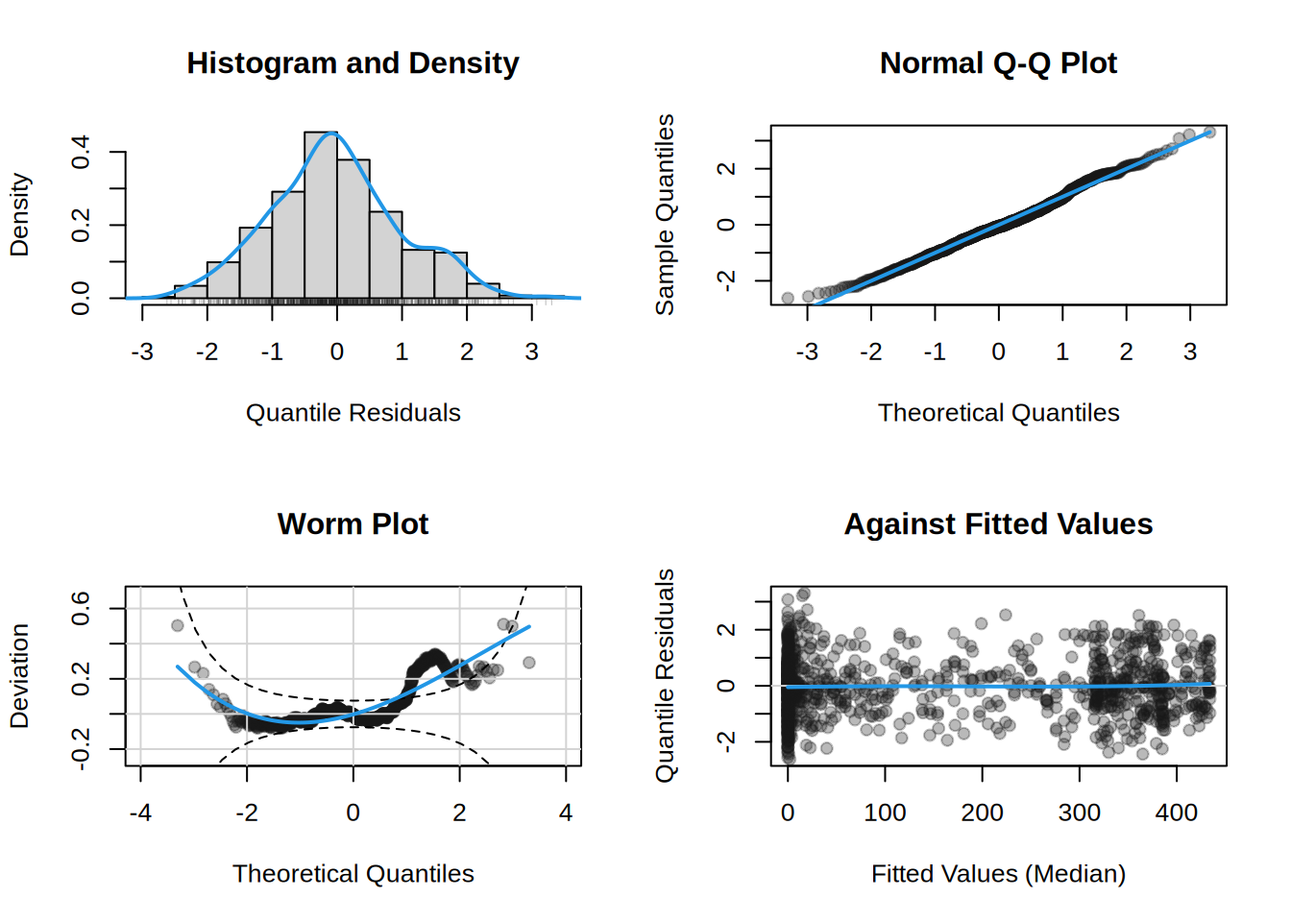
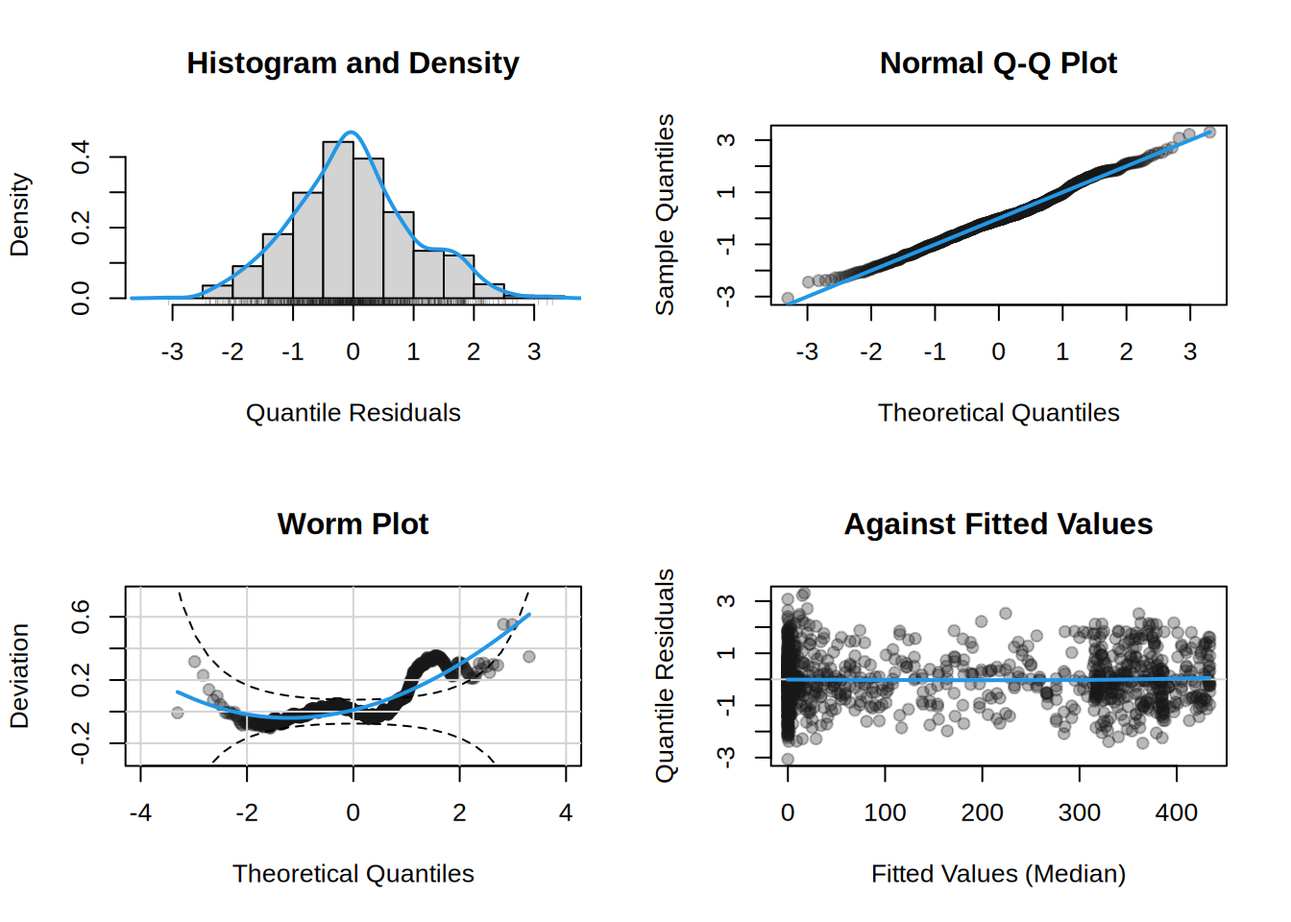
Deploying to gh-pages from @ gamlss-dev/gamlss2@c0889850b08cbef94e48e6db8e49471428d28bfa 🚀

diff --git a/man/predict.gamlss2.html b/man/predict.gamlss2.html
@@ -791,12 +791,12 @@ Further controls, including <code>FUN</code> (a function summarizing predictions
 <span id="cb1-3"><a href="#cb1-3" aria-hidden="true" tabindex="-1"></a><span class="do">## fit heteroscedastic normal GAMLSS model</span></span>
 <span id="cb1-4"><a href="#cb1-4" aria-hidden="true" tabindex="-1"></a><span class="do">## stopping distance (ft) explained by speed (mph)</span></span>
 <span id="cb1-5"><a href="#cb1-5" aria-hidden="true" tabindex="-1"></a><span class="fu">data</span>(<span class="st">"cars"</span>, <span class="at">package =</span> <span class="st">"datasets"</span>)</span>
-<span id="cb1-6"><a href="#cb1-6" aria-hidden="true" tabindex="-1"></a>m <span class="ot">&lt;-</span> <span class="fu">gamlss2</span>(dist <span class="sc">~</span> <span class="fu">s</span>(speed) <span class="sc">|</span> <span class="fu">s</span>(speed), <span class="at">data =</span> cars, <span class="at">family =</span> NO)</span></code></pre></div><button title="Copy to Clipboard" class="code-copy-button"><i class="bi"></i></button></div>
+<span id="cb1-6"><a href="#cb1-6" aria-hidden="true" tabindex="-1"></a>m <span class="ot">&lt;-</span> <span class="fu">gamlss2</span>(dist <span class="sc">~</span> <span class="fu">s</span>(speed) <span class="sc">|</span> <span class="fu">s</span>(speed), <span class="at">data =</span> cars, <span class="at">family =</span> Normal)</span></code></pre></div><button title="Copy to Clipboard" class="code-copy-button"><i class="bi"></i></button></div>
 <div class="cell-output cell-output-stdout">
-<pre><code>GAMLSS-RS iteration  1: Global Deviance = 405.0352 eps = 0.130476     
-GAMLSS-RS iteration  2: Global Deviance = 405.6152 eps = 0.001432     
-GAMLSS-RS iteration  3: Global Deviance = 405.657 eps = 0.000102     
-GAMLSS-RS iteration  4: Global Deviance = 405.6596 eps = 0.000006     </code></pre>
+<pre><code>GAMLSS-RS iteration  1: Global Deviance = 405.0351 eps = 0.130476     
+GAMLSS-RS iteration  2: Global Deviance = 405.6171 eps = 0.001437     
+GAMLSS-RS iteration  3: Global Deviance = 405.6598 eps = 0.000105     
+GAMLSS-RS iteration  4: Global Deviance = 405.6622 eps = 0.000005     </code></pre>
 </div>
 <div class="code-copy-outer-scaffold"><div class="sourceCode cell-code" id="cb3"><pre class="sourceCode r code-with-copy"><code class="sourceCode r"><span id="cb3-1"><a href="#cb3-1" aria-hidden="true" tabindex="-1"></a><span class="do">## new data for predictions</span></span>
 <span id="cb3-2"><a href="#cb3-2" aria-hidden="true" tabindex="-1"></a>nd <span class="ot">&lt;-</span> <span class="fu">data.frame</span>(<span class="at">speed =</span> <span class="fu">c</span>(<span class="dv">10</span>, <span class="dv">20</span>, <span class="dv">30</span>))</span>
@@ -805,139 +805,138 @@ GAMLSS-RS iteration  4: Global Deviance = 405.6596 eps = 0.000006     </code></p
 <span id="cb3-5"><a href="#cb3-5" aria-hidden="true" tabindex="-1"></a>d <span class="ot">&lt;-</span> <span class="fu">predict</span>(m, <span class="at">newdata =</span> nd)</span>
 <span id="cb3-6"><a href="#cb3-6" aria-hidden="true" tabindex="-1"></a><span class="fu">print</span>(d)</span></code></pre></div><button title="Copy to Clipboard" class="code-copy-button"><i class="bi"></i></button></div>
 <div class="cell-output cell-output-stdout">
-<pre><code>                                      1                                       2 
-"GAMLSS2 NO(mu = 23.06, sigma = 10.03)" "GAMLSS2 NO(mu = 58.89, sigma = 18.54)" 
-                                      3 
-"GAMLSS2 NO(mu = 96.20, sigma = 34.27)" </code></pre>
+<pre><code>                                  1                                   2 
+"Normal(mu = 23.07, sigma = 10.03)" "Normal(mu = 58.88, sigma = 18.55)" 
+                                  3 
+"Normal(mu = 96.16, sigma = 34.31)" </code></pre>
 </div>
 <div class="code-copy-outer-scaffold"><div class="sourceCode cell-code" id="cb5"><pre class="sourceCode r code-with-copy"><code class="sourceCode r"><span id="cb5-1"><a href="#cb5-1" aria-hidden="true" tabindex="-1"></a><span class="do">## can be used with distributions3 methods</span></span>
 <span id="cb5-2"><a href="#cb5-2" aria-hidden="true" tabindex="-1"></a><span class="fu">pdf</span>(d, <span class="dv">20</span>)</span></code></pre></div><button title="Copy to Clipboard" class="code-copy-button"><i class="bi"></i></button></div>
 <div class="cell-output cell-output-stdout">
 <pre><code>           1            2            3 
-0.0379452246 0.0023848152 0.0009821864 </code></pre>
+0.0379561830 0.0023911863 0.0009891498 </code></pre>
 </div>
 <div class="code-copy-outer-scaffold"><div class="sourceCode cell-code" id="cb7"><pre class="sourceCode r code-with-copy"><code class="sourceCode r"><span id="cb7-1"><a href="#cb7-1" aria-hidden="true" tabindex="-1"></a><span class="fu">cdf</span>(d, <span class="dv">20</span>)</span></code></pre></div><button title="Copy to Clipboard" class="code-copy-button"><i class="bi"></i></button></div>
 <div class="cell-output cell-output-stdout">
-<pre><code>        1         2         3 
-0.3800749 0.0179784 0.0130812 </code></pre>
+<pre><code>         1          2          3 
+0.37993725 0.01804292 0.01320648 </code></pre>
 </div>
 <div class="code-copy-outer-scaffold"><div class="sourceCode cell-code" id="cb9"><pre class="sourceCode r code-with-copy"><code class="sourceCode r"><span id="cb9-1"><a href="#cb9-1" aria-hidden="true" tabindex="-1"></a><span class="fu">quantile</span>(d, <span class="fl">0.8</span>)</span></code></pre></div><button title="Copy to Clipboard" class="code-copy-button"><i class="bi"></i></button></div>
 <div class="cell-output cell-output-stdout">
 <pre><code>        1         2         3 
- 31.50914  74.50001 125.04054 </code></pre>
+ 31.50817  74.49405 125.03656 </code></pre>
 </div>
 <div class="code-copy-outer-scaffold"><div class="sourceCode cell-code" id="cb11"><pre class="sourceCode r code-with-copy"><code class="sourceCode r"><span id="cb11-1"><a href="#cb11-1" aria-hidden="true" tabindex="-1"></a><span class="fu">mean</span>(d)</span></code></pre></div><button title="Copy to Clipboard" class="code-copy-button"><i class="bi"></i></button></div>
 <div class="cell-output cell-output-stdout">
 <pre><code>       1        2        3 
-23.06351 58.89341 96.20125 </code></pre>
+23.06591 58.88142 96.16345 </code></pre>
 </div>
 <div class="code-copy-outer-scaffold"><div class="sourceCode cell-code" id="cb13"><pre class="sourceCode r code-with-copy"><code class="sourceCode r"><span id="cb13-1"><a href="#cb13-1" aria-hidden="true" tabindex="-1"></a><span class="fu">variance</span>(d)</span></code></pre></div><button title="Copy to Clipboard" class="code-copy-button"><i class="bi"></i></button></div>
 <div class="cell-output cell-output-stdout">
 <pre><code>        1         2         3 
- 100.7002  343.8611 1174.1825 </code></pre>
+ 100.6198  344.1271 1176.9385 </code></pre>
 </div>
 <div class="code-copy-outer-scaffold"><div class="sourceCode cell-code" id="cb15"><pre class="sourceCode r code-with-copy"><code class="sourceCode r"><span id="cb15-1"><a href="#cb15-1" aria-hidden="true" tabindex="-1"></a><span class="fu">random</span>(d, <span class="dv">3</span>)</span></code></pre></div><button title="Copy to Clipboard" class="code-copy-button"><i class="bi"></i></button></div>
 <div class="cell-output cell-output-stdout">
-<pre><code>        r_1       r_2      r_3
-1  20.18728  35.79942 10.47219
-2  46.06463  63.08356 47.85222
-3 118.57489 129.27823 97.98271</code></pre>
+<pre><code>       r_1       r_2      r_3
+1 30.96171  22.10481 24.65174
+2 63.37010  54.32932 53.57990
+3 51.89600 101.01439 81.34261</code></pre>
 </div>
 <div class="code-copy-outer-scaffold"><div class="sourceCode cell-code" id="cb17"><pre class="sourceCode r code-with-copy"><code class="sourceCode r"><span id="cb17-1"><a href="#cb17-1" aria-hidden="true" tabindex="-1"></a><span class="do">## additive predictors on the link scale</span></span>
 <span id="cb17-2"><a href="#cb17-2" aria-hidden="true" tabindex="-1"></a><span class="fu">predict</span>(m, <span class="at">newdata =</span> nd, <span class="at">type =</span> <span class="st">"link"</span>)</span></code></pre></div><button title="Copy to Clipboard" class="code-copy-button"><i class="bi"></i></button></div>
 <div class="cell-output cell-output-stdout">
 <pre><code>        mu    sigma
-1 23.06351 2.306074
-2 58.89341 2.920119
-3 96.20125 3.534164</code></pre>
+1 23.06591 2.305675
+2 58.88142 2.920505
+3 96.16345 3.535336</code></pre>
 </div>
 <div class="code-copy-outer-scaffold"><div class="sourceCode cell-code" id="cb19"><pre class="sourceCode r code-with-copy"><code class="sourceCode r"><span id="cb19-1"><a href="#cb19-1" aria-hidden="true" tabindex="-1"></a><span class="do">## mean of the response distribution</span></span>
 <span id="cb19-2"><a href="#cb19-2" aria-hidden="true" tabindex="-1"></a><span class="fu">predict</span>(m, <span class="at">newdata =</span> nd, <span class="at">type =</span> <span class="st">"response"</span>)</span></code></pre></div><button title="Copy to Clipboard" class="code-copy-button"><i class="bi"></i></button></div>
 <div class="cell-output cell-output-stdout">
-<pre><code>       1        2        3 
-23.06351 58.89341 96.20125 </code></pre>
+<pre><code>[1] 23.06591 58.88142 96.16345</code></pre>
 </div>
 <div class="code-copy-outer-scaffold"><div class="sourceCode cell-code" id="cb21"><pre class="sourceCode r code-with-copy"><code class="sourceCode r"><span id="cb21-1"><a href="#cb21-1" aria-hidden="true" tabindex="-1"></a><span class="do">## same as</span></span>
 <span id="cb21-2"><a href="#cb21-2" aria-hidden="true" tabindex="-1"></a><span class="fu">mean</span>(d)</span></code></pre></div><button title="Copy to Clipboard" class="code-copy-button"><i class="bi"></i></button></div>
 <div class="cell-output cell-output-stdout">
 <pre><code>       1        2        3 
-23.06351 58.89341 96.20125 </code></pre>
+23.06591 58.88142 96.16345 </code></pre>
 </div>
 <div class="code-copy-outer-scaffold"><div class="sourceCode cell-code" id="cb23"><pre class="sourceCode r code-with-copy"><code class="sourceCode r"><span id="cb23-1"><a href="#cb23-1" aria-hidden="true" tabindex="-1"></a><span class="do">## all model parameters</span></span>
 <span id="cb23-2"><a href="#cb23-2" aria-hidden="true" tabindex="-1"></a><span class="fu">predict</span>(m, <span class="at">newdata =</span> nd, <span class="at">type =</span> <span class="st">"parameter"</span>)</span></code></pre></div><button title="Copy to Clipboard" class="code-copy-button"><i class="bi"></i></button></div>
 <div class="cell-output cell-output-stdout">
 <pre><code>        mu    sigma
-1 23.06351 10.03495
-2 58.89341 18.54349
-3 96.20125 34.26635</code></pre>
+1 23.06591 10.03094
+2 58.88142 18.55066
+3 96.16345 34.30654</code></pre>
 </div>
 <div class="code-copy-outer-scaffold"><div class="sourceCode cell-code" id="cb25"><pre class="sourceCode r code-with-copy"><code class="sourceCode r"><span id="cb25-1"><a href="#cb25-1" aria-hidden="true" tabindex="-1"></a><span class="do">## parameter selects parameter predictions if type is omitted</span></span>
 <span id="cb25-2"><a href="#cb25-2" aria-hidden="true" tabindex="-1"></a><span class="fu">predict</span>(m, <span class="at">newdata =</span> nd, <span class="at">parameter =</span> <span class="st">"sigma"</span>)</span></code></pre></div><button title="Copy to Clipboard" class="code-copy-button"><i class="bi"></i></button></div>
 <div class="cell-output cell-output-stdout">
 <pre><code>       1        2        3 
-10.03495 18.54349 34.26635 </code></pre>
+10.03094 18.55066 34.30654 </code></pre>
 </div>
 <div class="code-copy-outer-scaffold"><div class="sourceCode cell-code" id="cb27"><pre class="sourceCode r code-with-copy"><code class="sourceCode r"><span id="cb27-1"><a href="#cb27-1" aria-hidden="true" tabindex="-1"></a><span class="fu">predict</span>(m, <span class="at">newdata =</span> nd, <span class="at">parameter =</span> <span class="st">"sigma"</span>, <span class="at">drop =</span> <span class="cn">FALSE</span>)</span></code></pre></div><button title="Copy to Clipboard" class="code-copy-button"><i class="bi"></i></button></div>
 <div class="cell-output cell-output-stdout">
 <pre><code>     sigma
-1 10.03495
-2 18.54349
-3 34.26635</code></pre>
+1 10.03094
+2 18.55066
+3 34.30654</code></pre>
 </div>
 <div class="code-copy-outer-scaffold"><div class="sourceCode cell-code" id="cb29"><pre class="sourceCode r code-with-copy"><code class="sourceCode r"><span id="cb29-1"><a href="#cb29-1" aria-hidden="true" tabindex="-1"></a><span class="do">## individual terms in additive predictor(s)</span></span>
 <span id="cb29-2"><a href="#cb29-2" aria-hidden="true" tabindex="-1"></a><span class="fu">predict</span>(m, <span class="at">newdata =</span> nd, <span class="at">type =</span> <span class="st">"terms"</span>, <span class="at">parameter =</span> <span class="st">"sigma"</span>)</span></code></pre></div><button title="Copy to Clipboard" class="code-copy-button"><i class="bi"></i></button></div>
 <div class="cell-output cell-output-stdout">
 <pre><code>  (Intercept)   s(speed)
-1    2.637658 -0.3315843
-2    2.637658  0.2824607
-3    2.637658  0.8965055</code></pre>
+1    2.637683 -0.3320086
+2    2.637683  0.2828221
+3    2.637683  0.8976526</code></pre>
 </div>
 <div class="code-copy-outer-scaffold"><div class="sourceCode cell-code" id="cb31"><pre class="sourceCode r code-with-copy"><code class="sourceCode r"><span id="cb31-1"><a href="#cb31-1" aria-hidden="true" tabindex="-1"></a><span class="fu">predict</span>(m, <span class="at">newdata =</span> nd, <span class="at">type =</span> <span class="st">"terms"</span>, <span class="at">parameter =</span> <span class="st">"sigma"</span>, <span class="at">terms =</span> <span class="st">"s(speed)"</span>)</span></code></pre></div><button title="Copy to Clipboard" class="code-copy-button"><i class="bi"></i></button></div>
 <div class="cell-output cell-output-stdout">
 <pre><code>    s(speed)
-1 -0.3315843
-2  0.2824607
-3  0.8965055</code></pre>
+1 -0.3320086
+2  0.2828221
+3  0.8976526</code></pre>
 </div>
 <div class="code-copy-outer-scaffold"><div class="sourceCode cell-code" id="cb33"><pre class="sourceCode r code-with-copy"><code class="sourceCode r"><span id="cb33-1"><a href="#cb33-1" aria-hidden="true" tabindex="-1"></a><span class="do">## predict quantiles</span></span>
 <span id="cb33-2"><a href="#cb33-2" aria-hidden="true" tabindex="-1"></a><span class="fu">quantile</span>(m, <span class="at">newdata =</span> nd, <span class="at">probs =</span> <span class="fu">c</span>(<span class="fl">0.1</span>, <span class="fl">0.5</span>, <span class="fl">0.9</span>))</span></code></pre></div><button title="Copy to Clipboard" class="code-copy-button"><i class="bi"></i></button></div>
 <div class="cell-output cell-output-stdout">
 <pre><code>       10%      50%       90%
-1 10.20321 23.06351  35.92381
-2 35.12897 58.89341  82.65786
-3 52.28716 96.20125 140.11535</code></pre>
+1 10.21074 23.06591  35.92109
+2 35.10779 58.88142  82.65505
+3 52.19786 96.16345 140.12905</code></pre>
 </div>
 <div class="code-copy-outer-scaffold"><div class="sourceCode cell-code" id="cb35"><pre class="sourceCode r code-with-copy"><code class="sourceCode r"><span id="cb35-1"><a href="#cb35-1" aria-hidden="true" tabindex="-1"></a><span class="do">## same as</span></span>
 <span id="cb35-2"><a href="#cb35-2" aria-hidden="true" tabindex="-1"></a><span class="fu">quantile</span>(d, <span class="at">probs =</span> <span class="fu">c</span>(<span class="fl">0.1</span>, <span class="fl">0.5</span>, <span class="fl">0.9</span>), <span class="at">elementwise =</span> <span class="cn">FALSE</span>)</span></code></pre></div><button title="Copy to Clipboard" class="code-copy-button"><i class="bi"></i></button></div>
 <div class="cell-output cell-output-stdout">
 <pre><code>     q_0.1    q_0.5     q_0.9
-1 10.20321 23.06351  35.92381
-2 35.12897 58.89341  82.65786
-3 52.28716 96.20125 140.11535</code></pre>
+1 10.21074 23.06591  35.92109
+2 35.10779 58.88142  82.65505
+3 52.19786 96.16345 140.12905</code></pre>
 </div>
 <div class="code-copy-outer-scaffold"><div class="sourceCode cell-code" id="cb37"><pre class="sourceCode r code-with-copy"><code class="sourceCode r"><span id="cb37-1"><a href="#cb37-1" aria-hidden="true" tabindex="-1"></a><span class="do">## standard errors</span></span>
 <span id="cb37-2"><a href="#cb37-2" aria-hidden="true" tabindex="-1"></a><span class="fu">predict</span>(m, <span class="at">type =</span> <span class="st">"parameter"</span>, <span class="at">newdata =</span> nd, <span class="at">se.fit =</span> <span class="cn">TRUE</span>, <span class="at">R =</span> <span class="dv">200</span>)</span></code></pre></div><button title="Copy to Clipboard" class="code-copy-button"><i class="bi"></i></button></div>
 <div class="cell-output cell-output-stdout">
 <pre><code>    mu.fit    mu.se sigma.fit  sigma.se
-1 23.06351 1.917939  10.15932  1.614735
-2 58.89341 3.470156  18.78608  3.064083
-3 96.20125 9.341785  36.40538 13.041566</code></pre>
+1 23.06591 1.916477  10.15516  1.613394
+2 58.88142 3.470764  18.79351  3.066396
+3 96.16345 9.332039  36.44916 13.061156</code></pre>
 </div>
 <div class="code-copy-outer-scaffold"><div class="sourceCode cell-code" id="cb39"><pre class="sourceCode r code-with-copy"><code class="sourceCode r"><span id="cb39-1"><a href="#cb39-1" aria-hidden="true" tabindex="-1"></a><span class="do">## fast pointwise confidence bands, without sampling</span></span>
 <span id="cb39-2"><a href="#cb39-2" aria-hidden="true" tabindex="-1"></a>bands <span class="ot">&lt;-</span> <span class="fu">predict</span>(m, <span class="at">type =</span> <span class="st">"parameter"</span>, <span class="at">newdata =</span> nd, <span class="at">level =</span> <span class="fu">c</span>(<span class="fl">0.8</span>, <span class="fl">0.95</span>))</span>
 <span id="cb39-3"><a href="#cb39-3" aria-hidden="true" tabindex="-1"></a>bands<span class="sc">$</span>lower[[<span class="st">"80%"</span>]]</span></code></pre></div><button title="Copy to Clipboard" class="code-copy-button"><i class="bi"></i></button></div>
 <div class="cell-output cell-output-stdout">
-<pre><code>        mu    sigma
-1 20.47978  8.16792
-2 54.40545 15.36917
-3 84.96474 21.78597</code></pre>
+<pre><code>        mu     sigma
+1 20.48404  7.966721
+2 54.39246 15.066589
+3 84.93721 18.766883</code></pre>
 </div>
 <div class="code-copy-outer-scaffold"><div class="sourceCode cell-code" id="cb41"><pre class="sourceCode r code-with-copy"><code class="sourceCode r"><span id="cb41-1"><a href="#cb41-1" aria-hidden="true" tabindex="-1"></a>bands<span class="sc">$</span>upper[[<span class="st">"95%"</span>]]</span></code></pre></div><button title="Copy to Clipboard" class="code-copy-button"><i class="bi"></i></button></div>
 <div class="cell-output cell-output-stdout">
 <pre><code>         mu    sigma
-1  27.01499 13.74822
-2  65.75715 24.71144
-3 113.38602 68.49845</code></pre>
+1  27.01455 13.18790
+2  65.74669 23.87909
+3 113.33251 58.07239</code></pre>
 </div>
 <div class="code-copy-outer-scaffold"><div class="sourceCode cell-code" id="cb43"><pre class="sourceCode r code-with-copy"><code class="sourceCode r"><span id="cb43-1"><a href="#cb43-1" aria-hidden="true" tabindex="-1"></a><span class="do">## prediction uncertainty using multiple draws</span></span>
 <span id="cb43-2"><a href="#cb43-2" aria-hidden="true" tabindex="-1"></a>d <span class="ot">&lt;-</span> <span class="fu">predict</span>(m, <span class="at">newdata =</span> cars, <span class="at">R =</span> <span class="dv">1000</span>, <span class="at">FUN =</span> identity)</span>

diff --git a/vignettes/families.html b/vignettes/families.html
@@ -323,7 +323,8 @@ Derivative functions:
  [7] "cdf"                 "random"              "quantile"           
 [10] "crps"                "mean"                "variance"           
 [13] "skewness"            "kurtosis"            "create_distribution"
-[16] "support"             "score"               "valid.response"     </code></pre>
+[16] "support"             "score"               "valid.response"     
+[19] "initialize"         </code></pre>
 </div>
 <div class="code-copy-outer-scaffold"><div class="sourceCode cell-code" id="cb5"><pre class="sourceCode r code-with-copy"><code class="sourceCode r"><span id="cb5-1"><a href="#cb5-1" aria-hidden="true" tabindex="-1"></a>normal_family<span class="sc">$</span>names</span></code></pre></div><button title="Copy to Clipboard" class="code-copy-button"><i class="bi"></i></button></div>
 <div class="cell-output cell-output-stdout">
@@ -365,8 +366,8 @@ mu.s(speed)    1.2175
 sigma.s(speed) 1.0000
 *--------
 n = 50 df =  4.22 res.df =  45.78
-Deviance = 405.6622 Null Dev. Red. = 12.92%
-AIC = 414.0972 elapsed =  0.04sec</code></pre>
+Deviance = 405.6622 Null Dev. Red. = 12.91%
+AIC = 414.0972 elapsed =  0.03sec</code></pre>
 </div>
 </div>
 <p>By default, <code>predict()</code> performs the reverse operation: it extracts the fitted parameters and returns a vector of <code>distributions3</code> objects. The explicit <code>prodist()</code> interface is equivalent.</p>
@@ -412,10 +413,10 @@ AIC = 414.0972 elapsed =  0.04sec</code></pre>
 </div>
 <div class="code-copy-outer-scaffold"><div class="sourceCode cell-code" id="cb23"><pre class="sourceCode r code-with-copy"><code class="sourceCode r"><span id="cb23-1"><a href="#cb23-1" aria-hidden="true" tabindex="-1"></a><span class="fu">random</span>(d, <span class="dv">2</span>)</span></code></pre></div><button title="Copy to Clipboard" class="code-copy-button"><i class="bi"></i></button></div>
 <div class="cell-output cell-output-stdout">
-<pre><code>        r_1      r_2
-1  2.332104 27.76306
-2 49.316440 66.59943
-3 98.758596 96.97543</code></pre>
+<pre><code>        r_1       r_2
+1  21.17437  8.318066
+2  57.96680 47.090569
+3 159.59353 85.922644</code></pre>
 </div>
 </div>
 <p>This gives the complete workflow:</p>
@@ -487,7 +488,7 @@ AIC = 414.0972 elapsed =  0.04sec</code></pre>
 <span id="cb32-16"><a href="#cb32-16" aria-hidden="true" tabindex="-1"></a><span class="fu">AIC</span>(m, m_softplus)</span></code></pre></div><button title="Copy to Clipboard" class="code-copy-button"><i class="bi"></i></button></div>
 <div class="cell-output cell-output-stdout">
 <pre><code>                AIC       df
-m_softplus 414.0374 4.228447
+m_softplus 414.0375 4.228425
 m          414.0972 4.217505</code></pre>
 </div>
 </div>
@@ -624,7 +625,7 @@ sigma.s(Temp) 3.9513
 *--------
 n = 116 df =  11.5 res.df =  104.5
 Deviance = 929.2643 Null Dev. Red. = 14.2%
-AIC = 952.263 elapsed =  0.24sec</code></pre>
+AIC = 952.263 elapsed =  0.21sec</code></pre>
 </div>
 </div>
 <p>This pattern is useful when an existing distribution has the right likelihood but the wrong parameterization. <a href="prediction.html">Prediction and Uncertainty</a> uses this same Gamma family to construct intervals for means, quantiles, and future observations. A user-defined family can also be assembled directly as a <code>gamlss2.family</code>, as shown next.</p>
@@ -691,7 +692,7 @@ sigma.s(speed) 1.0000
 *--------
 n = 50 df =  4.22 res.df =  45.78
 Deviance = 405.6622 Null Dev. Red. = 12.92%
-AIC = 414.0972 elapsed =  0.03sec</code></pre>
+AIC = 414.0972 elapsed =  0.02sec</code></pre>
 </div>
 </div>
 <p>For a manually defined family, the minimum required interface is <code>family</code>, <code>names</code>, <code>links</code>, and <code>pdf()</code>. Derivative callbacks have the following shape:</p>

diff --git a/man/family.distribution.html b/man/family.distribution.html
@@ -675,11 +675,17 @@ family(
   ...
 )
 
+## S3 method for class 'gamlss.family'
+family(object, score = TRUE, hessian = FALSE, update = FALSE, ...)
+
 ## S3 method for class 'GAMLSS'
 family(object, ...)
 
-## S3 method for class 'gamlss.family'
-family(object, score = TRUE, hessian = FALSE, update = FALSE, ...)
+## S3 method for class 'Normal'
+family(object, links = NULL, initialize = NULL, ...)
+
+## S3 method for class 'Poisson'
+family(object, links = NULL, initialize = NULL, ...)
 
 distributions3_family(
   distribution,
@@ -792,14 +798,14 @@ function. A <code>function(x)</code> returning a logical indicating whether <cod
 <code id="initialize">initialize</code>
 </td>
 <td>
-list of functions. A named list with one <code>function(y, …)</code> per parameter to be modeled, returning an initialization for this parameter.
+list of functions. A named list with one <code>function(y, …)</code> per parameter to be modeled, returning an initialization for this parameter with the same length as <code>y</code>.
 </td>
 </tr>
 </tbody></table>
 </section>
 <section id="details" class="level3">
 <h3 class="anchored" data-anchor-id="details">Details</h3>
-<p><code>distributions3_family</code> maps fitted parameter lists to <span class="pkg">distributions3</span> objects and uses their methods for fitting and assessing the model. The <code>family</code> methods call this function and infer some family settings automatically.</p>
+<p>Using <code>family</code> methods, it is possible to set up <code>gamlss2.family</code> objects based on <code>distribution</code> objects leveraging the <span class="pkg">distributions3</span> infrastructure. The workhorse function is <code>distributions3_family</code> that defines all family elements using the standard <span class="pkg">distributions3</span> generics. Additionally, dedicated methods for specific classes such as <code>GAMLSS</code> or <code>Normal</code> etc. define further family elements for which no standard generic functions are available (e.g., the <code>links</code> or <code>initialize</code> functions) and then call the <code>distributions3_family</code> workhorse function.</p>
 </section>
 <section id="value" class="level3">
 <h3 class="anchored" data-anchor-id="value">Value</h3>
@@ -814,7 +820,7 @@ list of functions. A named list with one <code>function(y, …)</code> per param
 <span id="cb1-4"><a href="#cb1-4" aria-hidden="true" tabindex="-1"></a>f <span class="ot">&lt;-</span> <span class="fu">family</span>(<span class="fu">Poisson</span>(), <span class="at">links =</span> <span class="fu">c</span>(<span class="at">lambda =</span> <span class="st">"log"</span>))</span>
 <span id="cb1-5"><a href="#cb1-5" aria-hidden="true" tabindex="-1"></a><span class="fu">str</span>(f)</span></code></pre></div><button title="Copy to Clipboard" class="code-copy-button"><i class="bi"></i></button></div>
 <div class="cell-output cell-output-stdout">
-<pre><code>List of 18
+<pre><code>List of 19
  $ family             : chr "Poisson"
  $ names              : chr "lambda"
  $ links              :List of 1
@@ -842,6 +848,8 @@ list of functions. A named list with one <code>function(y, …)</code> per param
  $ score              :List of 1
   ..$ lambda:function (par, y, ...)  
  $ valid.response     :function (x)  
+ $ initialize         :List of 1
+  ..$ lambda:function (y, ...)  
  - attr(*, "class")= chr "gamlss2.family"</code></pre>
 </div>
 </div>

diff --git a/vignettes/bayesian.html b/vignettes/bayesian.html
@@ -316,7 +316,7 @@ sigma.s(Temp) 3.2250 0.7990
 *--------
 n = 116 df =  14.06 res.df =  101.94
 Deviance = 932.216 DIC = 960.341 Null Dev. Red. = 0.53%
-AIC = 960.341 elapsed =  1.82sec</code></pre>
+AIC = 960.341 elapsed =  1.79sec</code></pre>
 </div>
 </div>
 <p>The sampler uses block Metropolis-Hastings updates for linear and smooth coefficients. Smooth terms are updated using penalized weighted least squares proposals, while smoothing variances are sampled by inverse Gamma or slice sampling. See <code>?BS</code> for details of the sampler.</p>

diff --git a/vignettes/specials.html b/vignettes/specials.html
@@ -259,7 +259,7 @@ sigma.s(Temp)         4.3414
 *--------
 n = 116 df =  15.46 res.df =  100.54
 Deviance = 921.4427 Null Dev. Red. = 14.92%
-AIC = 952.3597 elapsed =  0.80sec</code></pre>
+AIC = 952.3597 elapsed =  0.77sec</code></pre>
 </div>
 </div>
 <p>Specials can occur in any distributional parameter formula. They are refitted from the current working response and weights at each backfitting iteration, then centered before being added to the additive predictor. Centering keeps the intercept and the special term identifiable.</p>
